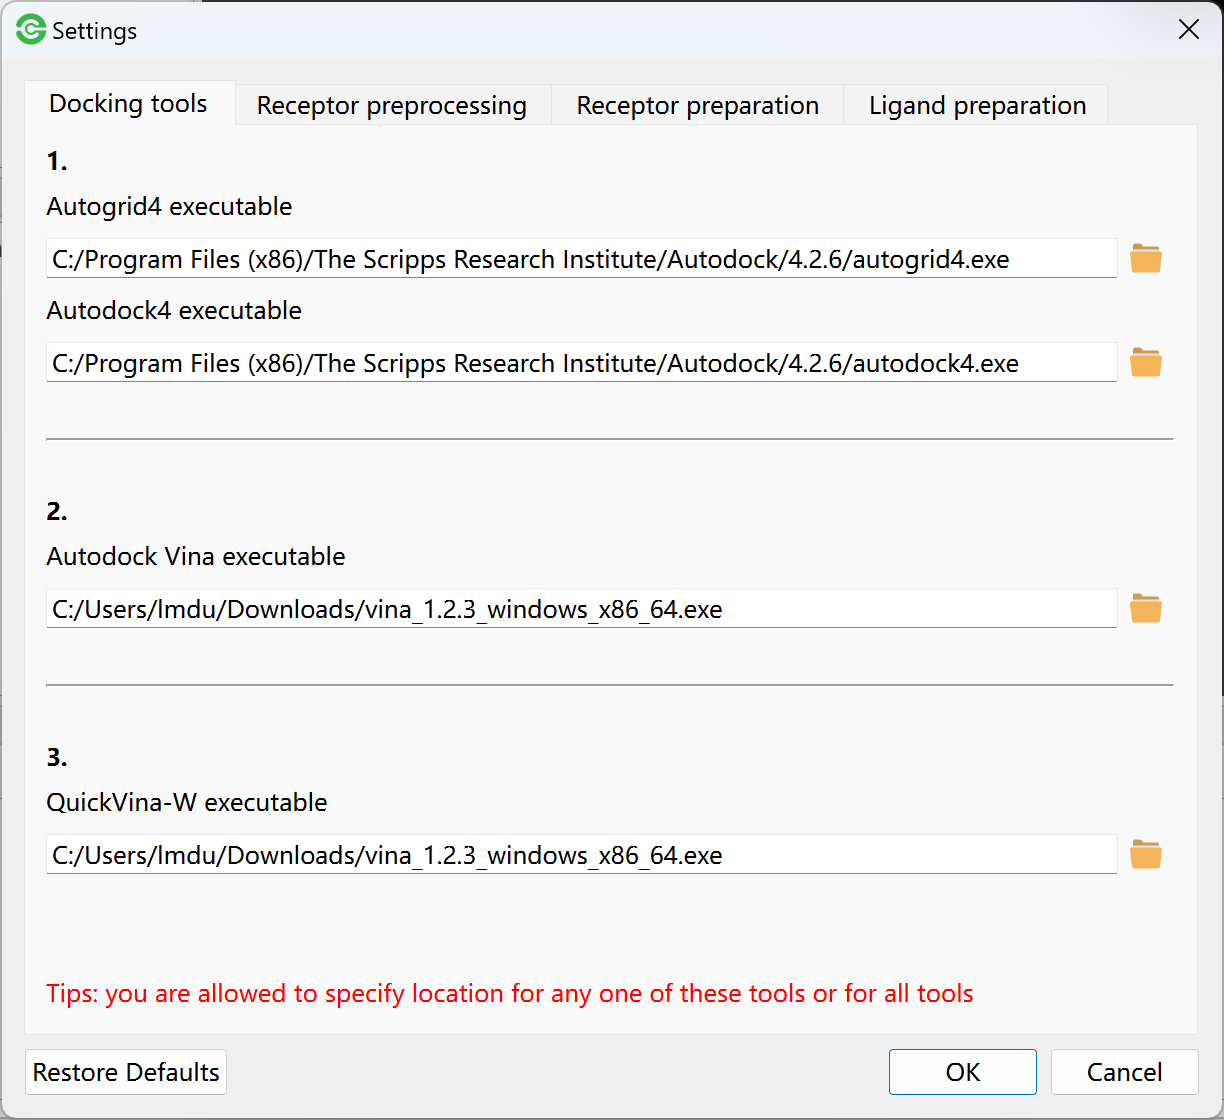
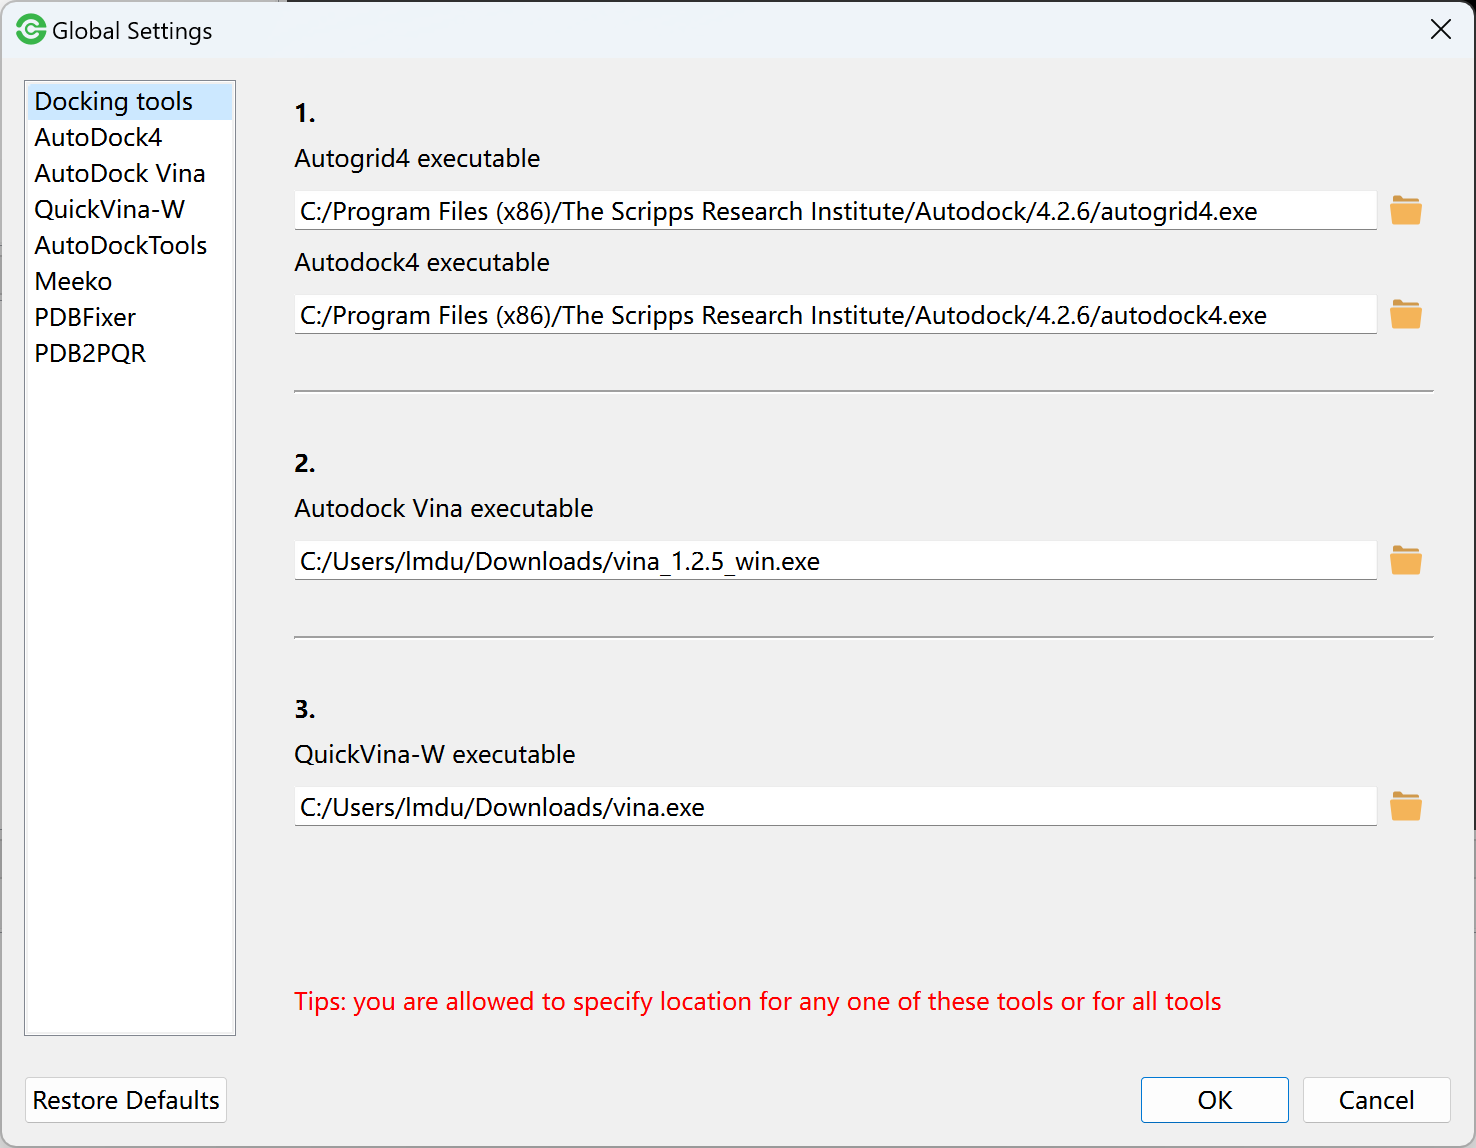
update docs

diff --git a/docs/docking.rst b/docs/docking.rst
@@ -6,7 +6,7 @@ Docking engines
 
 Firstly, you should specify the location of docking engines to ensure that the Dockey can invoke the docking engines.
 
-Go to **Edit** menu -> **Settings** -> **Docking tools** tab to open the docking engine setting dialog in where you can select the path of docking engines.
+Go to **Edit** menu -> **Global Settings** -> **Docking tools** tab to open the docking engine setting dialog in where you can select the path of docking engines.
 
 .. rst-class:: wy-text-center
 
@@ -45,79 +45,70 @@ Currently, Dockey supports three docking engines: AutoDock4, AutoDock Vina and Q
 Run AutoDock4
 ~~~~~~~~~~~~~
 
-Go to **Run** menu -> **AutoDock** to start AutoDock4 docking. If Dockey has completed docking jobs, you will be prompted with a dialog box asking whether or not to delete the previous jobs and docking results, and genreate new docking jobs.
+Go to **Run** menu -> **AutoDock4** to start AutoDock4 docking. You will be prompted with a dialog box asking to select receptor and ligand preparation tools.
 
 .. rst-class:: wy-text-center
 
 	|taskdlg|
 
-There are four steps to start AutoDock4. You can click ``<Back`` or ``Next>`` button in each page to switch step. At last, you can click ``Finish`` button to generate job queue and start docking jobs.
+#. Select a search algorithm: Genetic Algorithm (GA), Lamarckian GA, Simulated Annealing or Local Search for Autodock4. Lamarckian GA is most widely used search algorithm.
 
-**Step 1**, select a search algorithm: Genetic Algorithm (GA), Lamarckian GA, Simulated Annealing or Local Search. 
+#. Select a receptor preparation tool (AutoDockTools or OpenBabel).
 
-.. rst-class:: wy-text-center
+#. Select a ligand preparation tool (Meeko, AutoDockTools or OpenBabel).
 
-	|ad1|
-
-.. note::
-
-	Lamarckian GA is most widely used search algorithm.
-
-**Step 2**, set parameters for selected algorithm. You can use default parameters or uncheck ``Use default paramters`` to adjust parameters. 
-
-.. rst-class:: wy-text-center
-
-	|ad2|
-
-**Step 3**, set other docking parameters.
-
-.. rst-class:: wy-text-center
-
-	|ad3|
-
-**Step 4**, confirm docking jobs, you will get the number of docking jobs.
-
-.. rst-class:: wy-text-center
-
-	|ad4|
+#. Click **OK** to start docking tasks.
 
 .. note::
 
-	The meanings of above parameters can be found in `AutoDock4 manual <https://autodock.scripps.edu/wp-content/uploads/sites/56/2021/10/AutoDock4.2.6_UserGuide.pdf>`_. For simplicity, you can use the default value of parameters.
+	How to select receptor and ligand preparation tools (view `Molecular Preparation`_). How to set parameters for AutoDock4 (view `Autodock4 Settings`_)
 
 Run AutoDock Vina
 ~~~~~~~~~~~~~~~~~
 
-AudoDock Vina is more simple than AutoDock4, only two steps need to start Vina.
-
-**Step 1**, set docking parameters for AutoDock Vina. Using default parameters is Ok.
+Go to **Run** menu -> **AutoDock Vina** to start Autodock Vina. You will be prompted with a dialog box asking to select receptor and lignad preparation tool.
 
 .. rst-class:: wy-text-center
 
 	|vina1|
 
-**Step 2**, comfirm docking jobs.
+#. Select a receptor preparation tool (AutoDockTools or OpenBabel).
 
-.. rst-class:: wy-text-center
+#. Select a ligand preparation tool (Meeko, AutoDockTools or OpenBabel).
 
-	|vina2|
+#. Click **OK** to start docking tasks.
+
+How to select receptor and ligand preparation tools (view `Molecular Preparation`_). How to set parameters for AutoDock Vina (view `Autodock Vina Settings`_)
 
 Run QuickVina-W
 ~~~~~~~~~~~~~~~
 
-Similar to AutoDock Vina, QuickVina-W also needs two steps.
-
-**Step 1**, set docking parameters for QuickVina-W. Using default parameters is Ok.
+Go to **Run** menu -> **QuickVina-W** to start QuickVina. You will be prompted with a dialog box asking to select receptor and lignad preparation tool.
 
 .. rst-class:: wy-text-center
 
 	|qvinaw1|
 
-**Step 2**, comfirm docking jobs.
+#. Select a receptor preparation tool (AutoDockTools or OpenBabel).
+
+#. Select a ligand preparation tool (Meeko, AutoDockTools or OpenBabel).
+
+#. Click **OK** to start docking tasks.
+
+How to select receptor and ligand preparation tools (view `Preparation Tools`_). How to set parameters for QuickVina-W (view `QuickVina Settings`_)
+
+Fix Receptor
+------------
+
+Sometimes, your receptor PDB file may have some problems during molecular docking. You can use `PDBFixer <https://github.com/openmm/pdbfixer>`_ or `PDB2PQR <https://github.com/Electrostatics/pdb2pqr>`_ to fix the PDB file. The parameter settings can be found in `PDBFixer Settings`_ and `PDB2PQR Settings`_.
 
 .. rst-class:: wy-text-center
 
-	|qvinaw2|
+	|fixer|
+
+.. note::
+
+	We recommend that you use different receptor preparation tools first, and if the error persists, then consider using PDBFixer or PDB2PQR or both to fix receptors.
 
 Performing flexible docking
 ---------------------------
@@ -227,3 +218,6 @@ Go to **Toolbar** -> click |cpu| to open computing resource usage dialog where y
 	:width: 24
 .. |jobnum| image:: _static/jobnum.png
 	:width: 300
+
+.. |fixer| image:: _static/fixer.png
+	:width: 500

diff --git a/docs/prepare.rst b/docs/prepare.rst
@@ -4,14 +4,7 @@ Molecular Preparation
 Receptor Preprocessing
 ----------------------
 
-Sometimes, your receptor PDB file may have some problems during molecular docking. You can use `PDBFixer <https://github.com/openmm/pdbfixer>`_ or `PDB2PQR <https://github.com/Electrostatics/pdb2pqr>`_ to fix the PDB file. You can go to **Edit** menu -> **Settings** -> **Receptor preprocessing** tab to disable or enable preprocessing tools and set the corresponding parameters. The setting panel was shown in following image:
-
-.. rst-class:: wy-text-center
-
-	|reppre|
-
-
-Optionally, you can manually do receptor preprocessing using PyMOL. First, click one receptor in molecular list to view in PyMOL, and then:
+You can manually do receptor preprocessing using PyMOL. First, click one receptor in molecular list to view in PyMOL, and then:
 
 #. Go to **Edit** menu -> **Remove Water** to delete water from receptor.
 #. Go to **Edit** menu -> **Remove Solvent** to delete solvent from receptor.
@@ -24,35 +17,21 @@ Optionally, you can manually do receptor preprocessing using PyMOL. First, click
 
 .. note::
 
-	Sometimes you can skip the receptor preprocessing step and remove water in preparing step.
+	Certainly, you can skip the receptor preprocessing step. The ligand and water will be automatically removed in molecular preparation step.
 
 Receptor Preparation
 --------------------
 
-Dockey use ``prepare_receptor4.py`` in `AutoDockTools <https://github.com/lmdu/AutoDockTools_py3>`_ to prepare receptor and generate PDBQT file. Before starting docking tasks, you can go to **Edit** menu -> **Settings** -> **Receptor preparation** to open preparation setting panel.
+The priority of receptor preparation tools: AutoDockTools > OpenBabel. For example, you can firstly select AutoDockTools as receptor preparation tool. If AutoDockTools failed, you can select OpenBabel as preparation tool.
 
-.. rst-class:: wy-text-center
-
-	|mpr|
-
-The paramter description can be found in script `prepare_receptor4.py <https://github.com/lmdu/AutoDockTools_py3/blob/master/AutoDockTools/Utilities24/prepare_receptor4.py>`_.
+For `AutoDockTools <https://github.com/lmdu/AutoDockTools_py3>`_, the ``prepare_receptor4.py`` in AutoDockTools was used to prepare receptor and generate PDBQT file. Before starting docking tasks, you can go to **Edit** menu -> **Global Settings** -> **AutoDockTools** -> **Receptor preparation** to set parameters.
 
 Ligand Preparation
 ------------------
 
-You can use ``prepare_ligand4.py`` in `AutoDockTools <https://github.com/lmdu/AutoDockTools_py3>`_ or `Meeko <https://github.com/forlilab/Meeko>`_ to prepare ligands and generate PDBQT file. Before starting docking tasks, you can go to **Edit** menu -> **Settings** -> **Ligand reparation** to open preparation setting panel.
+The priority of receptor preparation tools: AutoDockTools > Meeko > OpenBabel. For example, you can firstly select AutoDockTools as ligand preparation tool. If AutoDockTools failed, you can select Meeko as preparation tool. If Meeko failed, select OpenBabel.
 
-#. You can select ``prepare_ligand4`` as ligand preparation tool, you will see the parameters for prepare_ligand4. The parameter description can be found in script `prepare_ligand4.py <https://github.com/lmdu/AutoDockTools_py3/blob/master/AutoDockTools/Utilities24/prepare_ligand4.py>`_.
-
-	.. rst-class:: wy-text-center
-
-		|mpl|
-
-#. You can also select ``Meeko`` as ligand preparation tool, you will see the parameters for Meeko.
-
-	.. rst-class:: wy-text-center
-
-		|mpm|
+For `AutoDockTools <https://github.com/lmdu/AutoDockTools_py3>`_, the ``prepare_ligand4.py`` in AutoDockTools was used to prepare ligands and generate PDBQT file. Before starting docking tasks, you can go to **Edit** menu -> **Global Settings** -> **AutoDockTools** -> **Ligand reparation** to set parameter.
 
 .. |delchain| image:: _static/delchain.png
 	:width: 300

diff --git a/docs/settings.rst b/docs/settings.rst
@@ -1,0 +1,98 @@
+Global Settings
+===============
+
+Autodock4 Settings
+------------------
+
+Go to **Edit** -> **Global Settings** -> **Autodock4** to set parameters for Autodock4:
+
+.. rst-class:: wy-text-center
+
+	|adset|
+
+In this panel, you can set general parameters and set parameters for each search algorithm.
+
+The meanings of above parameters can be found in `AutoDock4 manual <https://autodock.scripps.edu/wp-content/uploads/sites/56/2021/10/AutoDock4.2.6_UserGuide.pdf>`_. For simplicity, you can use the default value of parameters.
+
+Autodock Vina Settings
+----------------------
+
+Go to **Edit** -> **Global Settings** -> **Autodock Vina** to set parameters for Autodock Vina:
+
+.. rst-class:: wy-text-center
+
+	|vinaset|
+
+
+QuickVina Settings
+------------------
+
+Go to **Edit** -> **Global Settings** -> **QuickVina-W** to set parameters for QuickVina:
+
+.. rst-class:: wy-text-center
+
+	|qvinaset|
+
+AutoDockTools Settings
+----------------------
+
+Go to **Edit** -> **Global Settings** -> **AutoDockTools** -> **Prepare Receptors** to set parameters for receptor preparation:
+
+.. rst-class:: wy-text-center
+
+	|adtrep|
+
+The paramter description can be found in script `prepare_receptor4.py <https://github.com/lmdu/AutoDockTools_py3/blob/master/AutoDockTools/Utilities24/prepare_receptor4.py>`_.
+
+Go to **Edit** -> **Global Settings** -> **AutoDockTools** -> **Prepare Ligands** to set parameters for ligand preparation:
+
+.. rst-class:: wy-text-center
+
+	|adtlig|
+
+The parameter description can be found in script `prepare_ligand4.py <https://github.com/lmdu/AutoDockTools_py3/blob/master/AutoDockTools/Utilities24/prepare_ligand4.py>`_.
+
+Meeko Settings
+--------------
+
+Go to **Edit** -> **Global Settings** -> **Meeko** -> **Prepare Ligands** to set parameters for ligand preparation:
+
+.. rst-class:: wy-text-center
+
+	|meekolig|
+
+PDBFixer Settings
+-----------------
+
+Go to **Edit** -> **Global Settings** -> **PDBFixer** to set parameters for PDBFixer:
+
+.. rst-class:: wy-text-center
+
+	|pdbfixer|
+
+PDB2PQR Settings
+----------------
+
+Go to **Edit** -> **Global Settings** -> **PDB2PQR** -> to set parameters for PDB2PQR:
+
+.. rst-class:: wy-text-center
+
+	|pdb2pqr|
+
+.. |adset| image:: _static/adset.png
+	:width: 500
+
+.. |vinaset| image:: _static/vinaset.png
+	:width: 500
+
+.. |qvinaset| image:: _static/qvinaset.png
+	:width: 500
+
+.. |adtrep| image:: _static/adtrep.png
+	:width: 500
+
+.. |adtlig| image:: _static/adtlig.png
+	:width: 500
+
+.. |meekolig| image:: _static/meekolig.png
+	:width: 500

diff --git a/docs/pose.rst b/docs/pose.rst
@@ -77,6 +77,11 @@ You can click one pose in best pose table or job pose table to view the 3D struc
 #. Go to **File** menu -> **Export As Image** to save the 3D structure in PyMOL view to PNG file.
 #. Go to **File** menu -> **Export As File** to save the content of PyMOL view to pdb file.
 
+Preset Active Binding Sites
+---------------------------
+
+You can right click a receptor in molecular list and then go to menu **Preset Active Binding Sites** to open a dialog. You can select several residues as active binding sites to see whether ligands can be docked to them. If the ligand can be docked to preset binding sites, the pose in table will has green background color.
+
 .. |bestpose| image:: _static/bestpose.png
 .. |jobpose| image:: _static/jobpose.png
 .. |posemenu| image:: _static/posemenu.png

diff --git a/docs/index.rst b/docs/index.rst
@@ -20,8 +20,9 @@ Molecular docking and virtual screening
    overview
    project
    input
-   prepare
    docking
+   prepare
+   settings
    pose
    interaction
    visualization
